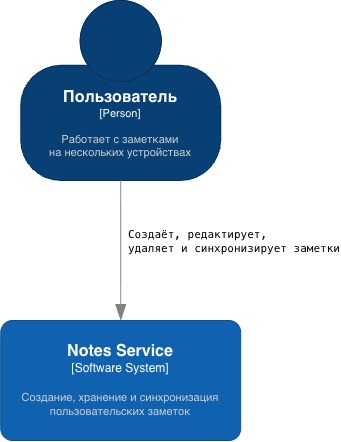
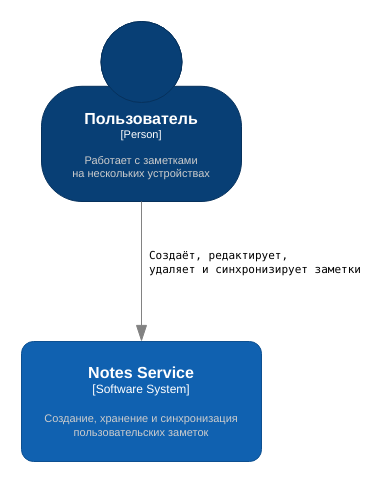
docs: rename Authentication module to Identity & Access (ADR-002)

Changed region(s): [[0.0, 0.0, 0.9971, 1.0]]

diff --git a/docs/architecture/ADR-002-bounded-contexts.md b/docs/architecture/ADR-002-bounded-contexts.md
@@ -1,0 +1,47 @@
+# ADR-002: Ограниченные контексты и модуль Identity & Access
+
+## Статус
+
+Принято. Уточняет [ADR-001](ADR-001.md).
+
+## Дата
+
+05.10.2026
+
+## Контекст
+
+ADR-001 разделил модульный монолит на модули Authentication, Notes, Synchronization и Attachments. При построении DDD-модели ([docs/ddd](../ddd/README.md)) выяснилось:
+
+- контекст отвечает не только за проверку входа, но и за жизненный цикл учётной записи и токенов (регистрация, вход, обновление и отзыв токенов). Название Authentication описывает лишь одну операцию;
+- модулям нужны явные правила: кто владеет данными и как модули взаимодействуют, чтобы общая база не превратилась в общий доступ ко всему.
+
+## Решение
+
+1. Модуль Authentication переименован в **Identity & Access** во всех артефактах: README, OpenAPI (тег), C4.
+2. Модули соответствуют четырём ограниченным контекстам: Identity & Access, Notes, Synchronization, Attachments. Отдельное развёртывание контекстов не вводится.
+3. Владение данными:
+
+| Контекст | Владеет таблицами |
+|---|---|
+| Identity & Access | users, auth_refresh_tokens |
+| Notes | notes, note_versions, tags, note_tags |
+| Synchronization | devices, sync_sessions, sync_changes, change_feed |
+| Attachments | attachments, upload_attempts |
+| общая инфраструктура | outbox, processed_events, idempotency_keys |
+
+4. Модуль изменяет только свои таблицы. Обращение к чужой модели выполняется через интерфейс модуля (связи L1, L2, L4, L5) или доменное событие (L3, L7, L8) – см. [карту контекстов](../ddd/context-map.md).
+5. Identity & Access подтверждает личность, право на конкретную заметку проверяет Notes.
+6. Между контекстами передаются только идентификаторы; объекты чужой модели не входят в транзакцию агрегата.
+
+## Последствия
+
+Положительные:
+
+- название модуля совпадает с языком предметной области;
+- границы модулей можно проверять автоматически (запрет прямого доступа к таблицам чужого модуля);
+- контекст можно выделить в отдельный сервис без изменения контрактов.
+
+Отрицательные:
+
+- межконтекстная согласованность достигается событиями и сверкой, а не одной транзакцией;
+- нужен транзакционный outbox и идемпотентная обработка событий.

diff --git a/README.md b/README.md
@@ -34,7 +34,7 @@ Notes Service — клиент-серверная система для созд
 
 Система логически разделяется на следующие модули:
 
-- Authentication — регистрация и аутентификация;
+- Identity & Access — регистрация, вход и управление токенами;
 - Notes — управление заметками;
 - Synchronization — синхронизация данных между устройствами;
 - Attachments — работа с вложениями.
